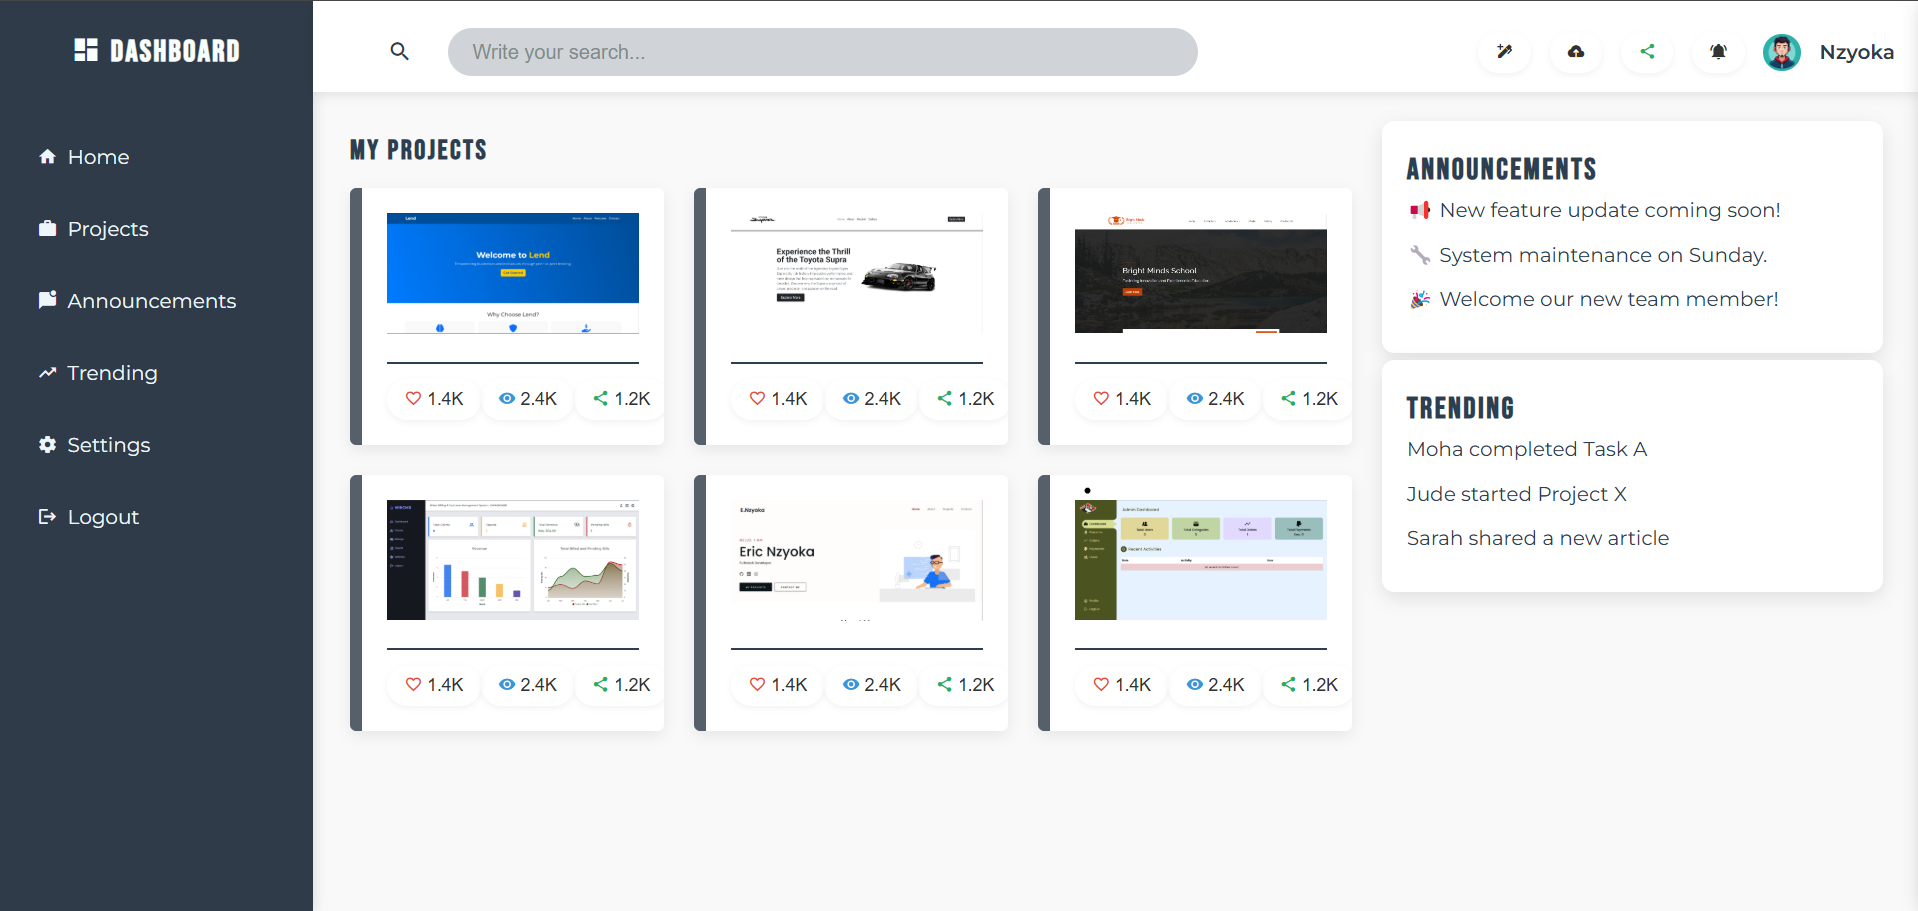
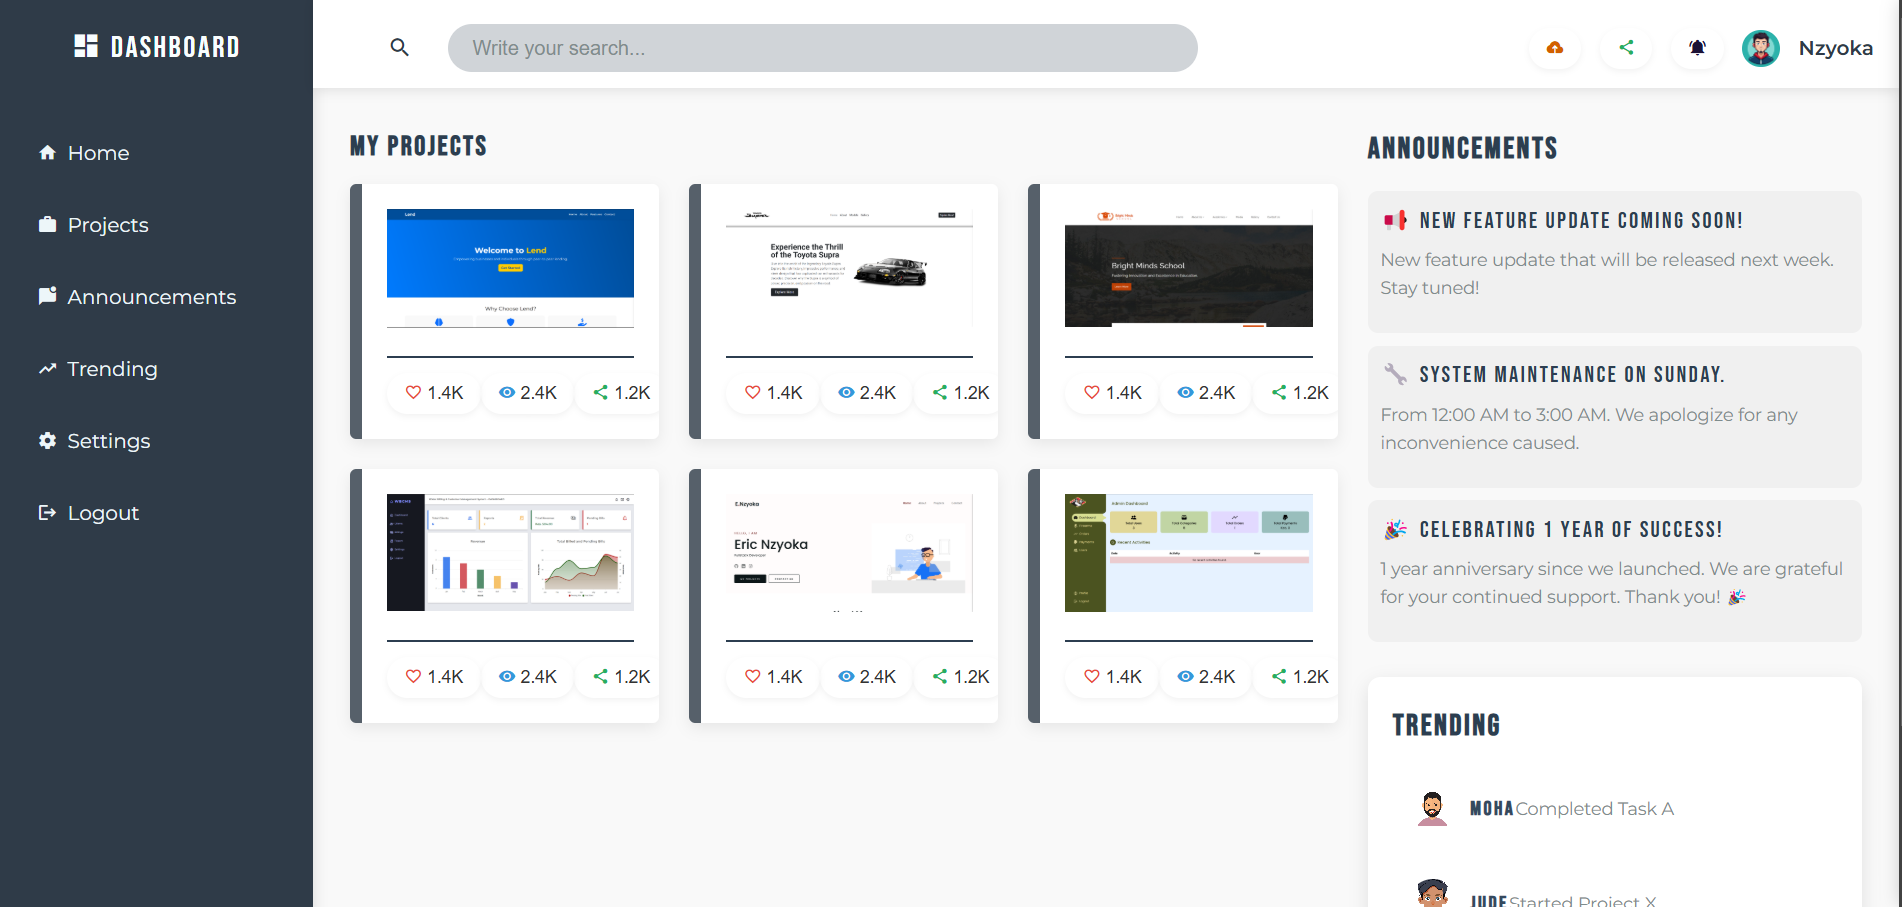
Add trending section styling and hover effects.

diff --git a/css/styles.css b/css/styles.css
@@ -17,7 +17,7 @@ body {
 /* font for all headings */
 h1, h2, h3, h4, h5, h6 {
     font-family: "Bebas Neue", serif;
-    font-weight: 700;
+    font-weight: 500;
     letter-spacing: 2px;
 }
 
@@ -152,17 +152,53 @@ h1, h2, h3, h4, h5, h6 {
     color: #2f3b48;
 }
 
+/* General Button Styling */
 .icon-btn {
-    background: none;
+    display: flex;
+    align-items: center;
+    gap: 4px;
     border: none;
+    background: transparent;
+    color: #333;
+    font-size: 14px;
+    font-weight: 500;
+    padding: 8px 14px;
+    border-radius: 50px;
     cursor: pointer;
-    font-size: 20px;
-    color: #2c3e50;
-    transition: transform 0.2s ease-in-out;
+    transition: all 0.3s ease-in;
+    box-shadow: 0 2px 5px rgba(0, 0, 0, 0.05);
 }
 
 .icon-btn:hover {
-    transform: scale(1.1);
+    background: #2f3b48;
+    color: #fff;
+    box-shadow: 0 3px 8px rgba(0, 0, 0, 0.1);
+}
+
+/* Like Button */
+.icon-btn .mdi-heart-outline {
+    color: #e74c3c;
+}
+
+/* View Button */
+.icon-btn .mdi-eye {
+    color: #3498db;
+}
+
+/* Share Button */
+.icon-btn .mdi-share-variant {
+    color: #27ae60;
+}
+
+.icon-btn .mdi-bell-ring {
+    color: #1c1236;
+}
+.icon-btn .mdi-bell-ring:hover {
+    color: #fbf9ff;
+}
+
+.icon-btn .mdi-cloud-upload{
+    color: #d25f00;
 }
 
 /* Main Content */
@@ -296,43 +332,7 @@ h1, h2, h3, h4, h5, h6 {
     border-top: 2px solid #2c3e50;
 }
 
-/* General Button Styling */
-.icon-btn {
-    display: flex;
-    align-items: center;
-    gap: 4px;
-    border: none;
-    background: transparent;
-    color: #333;
-    font-size: 14px;
-    font-weight: 500;
-    padding: 8px 14px;
-    border-radius: 50px;
-    cursor: pointer;
-    transition: all 0.3s ease-in;
-    box-shadow: 0 2px 5px rgba(0, 0, 0, 0.05);
-}
 
-.icon-btn:hover {
-    background: #2f3b48;
-    color: #fff;
-    box-shadow: 0 3px 8px rgba(0, 0, 0, 0.1);
-}
-
-/* Like Button */
-.icon-btn .mdi-heart-outline {
-    color: #e74c3c;
-}
-
-/* View Button */
-.icon-btn .mdi-eye {
-    color: #3498db;
-}
-
-/* Share Button */
-.icon-btn .mdi-share-variant {
-    color: #27ae60;
-}
 
 /* Responsive Design */
 @media (max-width: 768px) {
@@ -352,22 +352,98 @@ h1, h2, h3, h4, h5, h6 {
 }
 
 
-/* Announcements & Trending Sections */
-.announcements, .trending {
+/* Announcements Section */
+.announcements {
+    grid-column: span 1;
+    padding: 12px 0;
+}
+.announcements h2 {
+    font-size: 24px;
+    color: #2c3e50;
+    margin-bottom: 15px;
+    font-weight: 600;
+}
+.announcements p {
+    font-size: 16px;
+    color: #7f8c8d;
+    margin-bottom: 15px;
+}
+.announcements ul {
+    list-style: none;
+    padding: 0;
+}
+.announcements li {
+    padding: 10px;
+    border-radius: 8px;
+    background-color: #f0f0f0;
+    margin-bottom: 10px;
+    }
+.announcements li h4 {
+    font-size: 18px;
+    color: #2c3e50;
+    margin-bottom: 5px;
+}
+.announcements li p {
+    font-size: 14px;
+    color: #7f8c8d;
+}
+
+/* Trending Section */
+.trending {
     background-color: #ffffff;
     padding: 20px;
     border-radius: 10px;
     box-shadow: 0px 5px 15px rgba(0, 0, 0, 0.1);
-    margin-top: 6px; /* Reduced top margin */
+    margin-top: 6px;
 }
 
-.announcements ul, .trending ul {
+.trending h2 {
+    font-size: 24px;
+    color: #2c3e50;
+    margin-bottom: 15px;
+    font-weight: 600;
+}
+
+.trending ul {
     list-style: none;
     padding: 0;
 }
 
-.announcements ul li, .trending ul li {
-    margin-bottom: 10px;
+.trending ul li {
+    display: flex;
+    align-items: center;
+    margin-bottom: 12px;
+    padding: 12px;
+    border-radius: 8px;
+    transition: background-color 0.3s ease;
+}
+
+.trending ul li:hover {
+    background-color: #f0f0f0;
+}
+
+.trending ul li h4 {
+    display: flex;
+    align-items: center;
+    gap: 10px;
+    font-size: 16px;
+}
+
+.trending ul li h4 img {
+    width: 40px;
+    height: 40px;
+    border-radius: 50%;
+    object-fit: cover;
+}
+
+.trending ul li .uname {
+    font-weight: 600;
+    color: #34495e;
+}
+
+.trending ul li p {
+    font-size: 14px;
+    color: #7f8c8d;
 }
 
 /* Responsive Design for Smaller Screens */

diff --git a/index.html b/index.html
@@ -52,7 +52,7 @@
             <input type="text" placeholder="Write your search..." aria-label="Search" />
           </div>
           <div class="user-info">
-            <button class="btn btn-sm icon-btn" aria-label="Add Post"><span class="mdi mdi-pen-plus"></span></button>
+            <!-- <button class="btn btn-sm icon-btn" aria-label="Add Post"><span class="mdi mdi-pen-plus"></span></button> -->
             <button class="btn btn-sm icon-btn" aria-label="Upload"><span class="mdi mdi-cloud-upload"></span></button>
             <button class="btn btn-sm icon-btn" aria-label="Share"><span class="mdi mdi-share-variant"></span></button>
             <button class="btn btn-sm icon-btn" aria-label="Notifications"><span class="mdi mdi-bell-ring"></span></button>
@@ -79,21 +79,68 @@
             <section class="announcements">
                 <h2>Announcements</h2>
                 <ul>
-                    <li>📢 New feature update coming soon!</li>
-                    <li>🔧 System maintenance on Sunday.</li>
-                    <li>🎉 Welcome our new team member!</li>
+                    <li>
+                        <h4>📢 New feature update coming soon!</h4>
+                        <p>New feature update that will be released next week. Stay tuned!</p>
+                    </li>
+
+                    <li>
+                        <h4>🔧 System maintenance on Sunday.</h4>
+                        <p>From 12:00 AM to 3:00 AM. We apologize for any inconvenience caused.</p>
+                    </li>
+                    <li>
+                        <h4>🎉 Celebrating 1 year of success!</h4>
+                        <p>1 year anniversary since we launched. We are grateful for your continued support. Thank you! 🎉</p>
+                    </li>
                 </ul>
             </section>
         
             <!-- Trending Section -->
-            <section class="trending">
+<section class="trending">
+    <h2>Trending</h2>
+    <ul>
+        <!-- Trending List Item 1 -->
+        <li>
+            
+            <h4>
+                <img src="img/person-3.jpg" alt="Person 1" aria-label="Person 1" />
+                <span class="uname">Moha</span>
+            </h4>
+            <p>Completed Task A</p>
+        </li>
+        
+        <!-- Trending List Item 2 -->
+        <li>
+            
+            <h4>
+                <img src="img/person-1.avif" alt="Person 2" aria-label="Person 2" />
+                <span class="uname">Jude</span>
+            </h4>
+            <p>Started Project X</p>
+        </li>
+        
+        <!-- Trending List Item 3 -->
+        <li>
+            
+            <h4>
+                <img src="img/person-2.avif" alt="Person 3" aria-label="Person 3" />
+                <span class="uname">Sarah</span>
+            </h4>
+            <p>Shared a new article</p>
+        </li>
+    </ul>
+</section>
+
+
+            <!-- News Section -->
+            <!-- <section class="trending">
                 <h2>Trending</h2>
                 <ul>
                     <li>Moha completed Task A</li>
                     <li>Jude started Project X</li>
                     <li>Sarah shared a new article</li>
                 </ul>
-            </section>
+            </section> -->
         </section>
         
         
